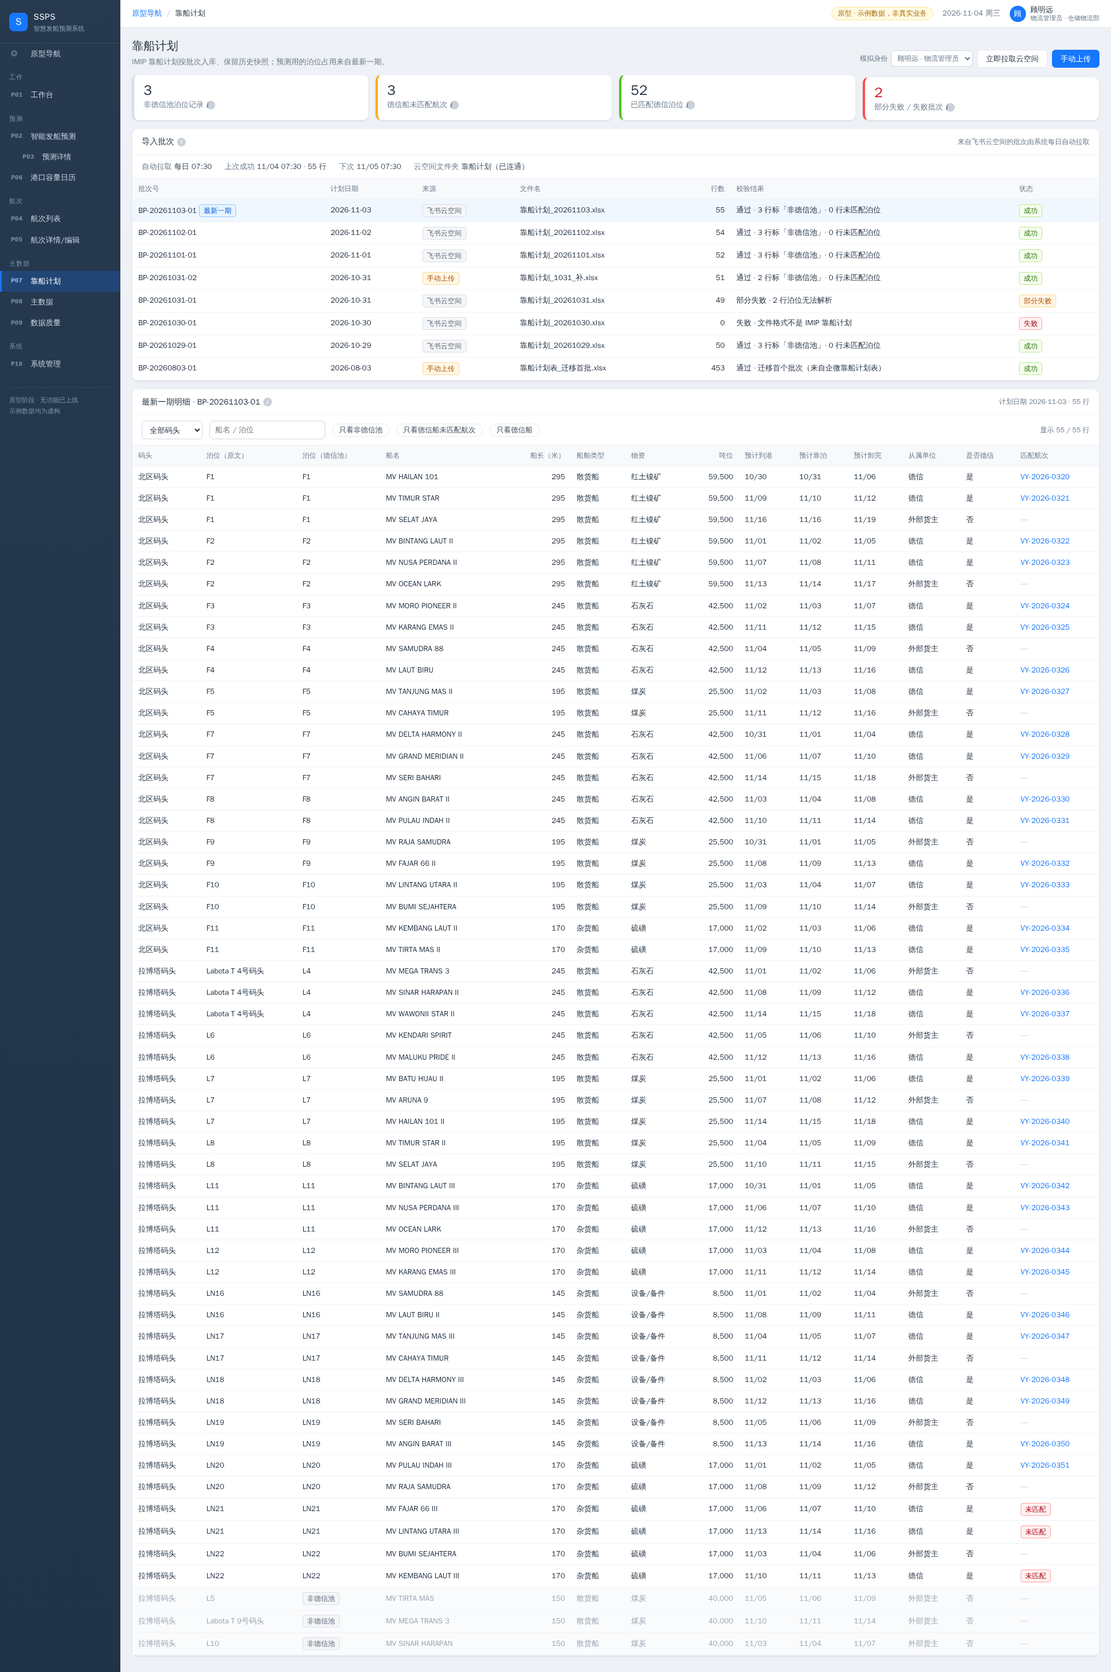
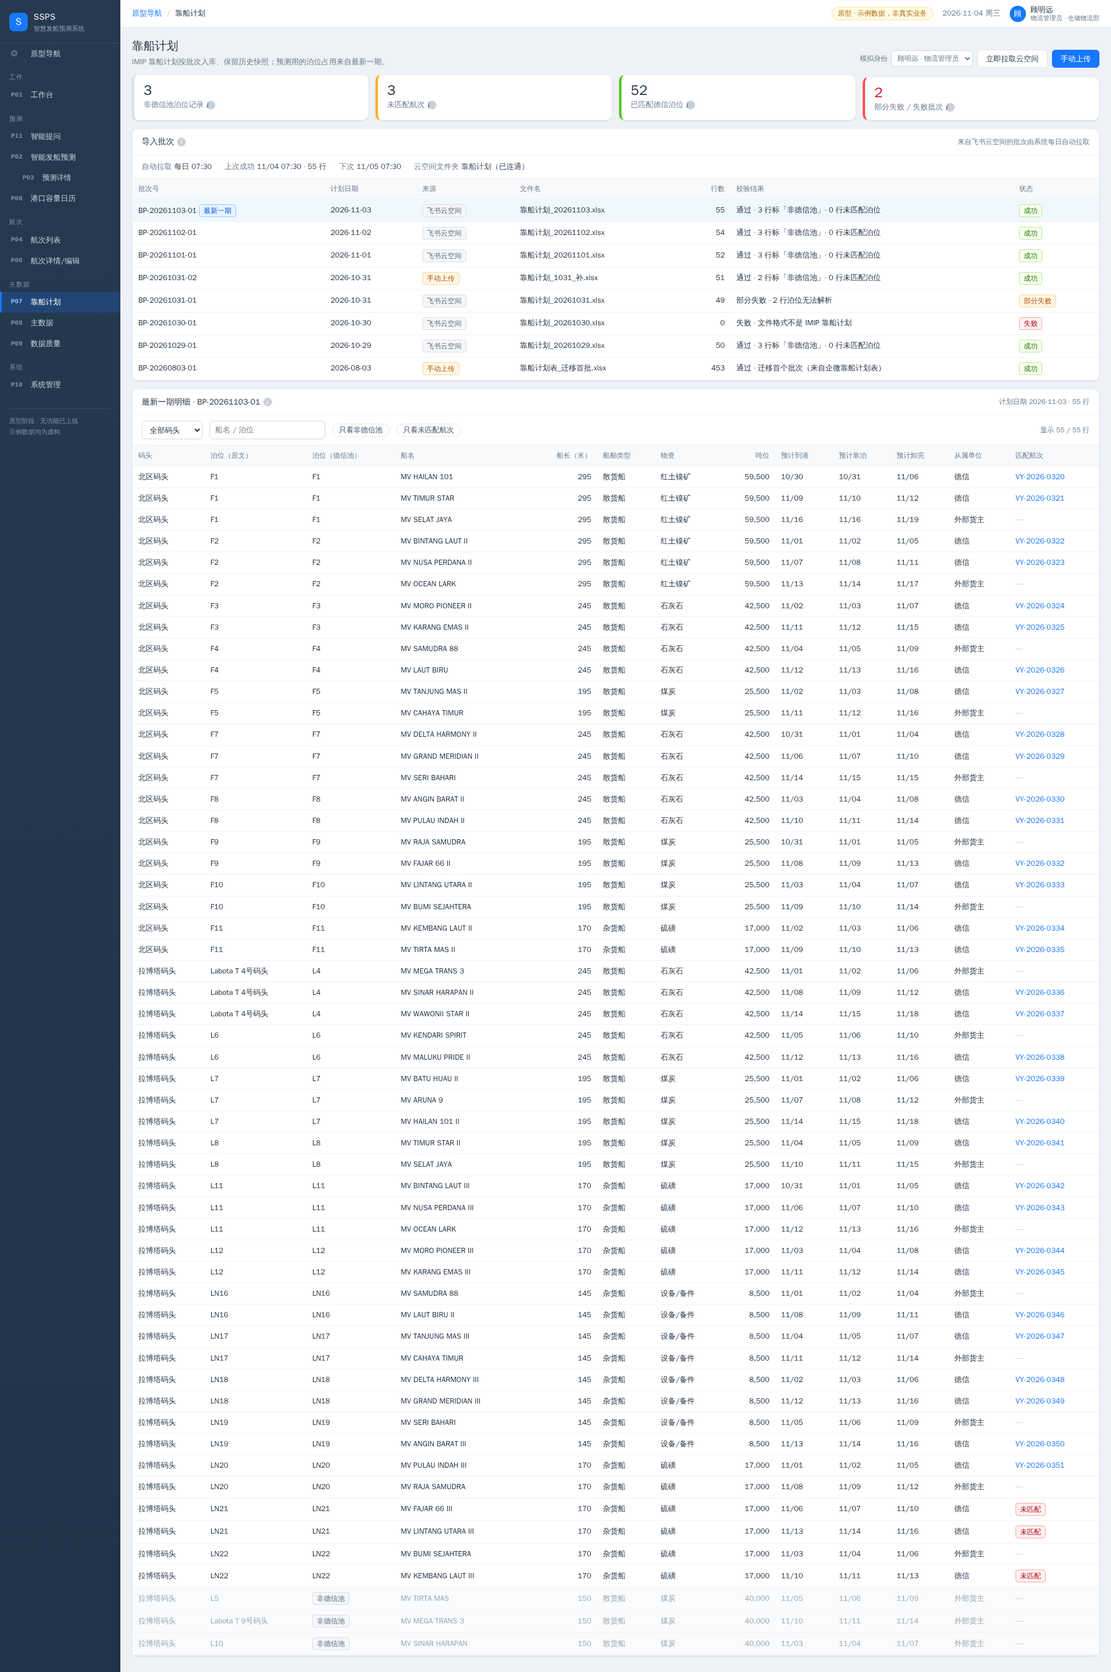
删除 T10「是否德信」字段：同步规格、建表清单、建表计划与 P07 原型
Claude-Session: https://claude.ai/code/session_01S7EgPzREeeBA8rsxhMLUP6

diff --git a/prototype/P07-berth-plan.html b/prototype/P07-berth-plan.html
@@ -50,7 +50,7 @@
         <div class="fbar">
           <select class="inp" id="tm"><option value="">全部码头</option><option>北区码头</option><option>拉博塔码头</option></select>
           <input class="inp" id="kw" placeholder="船名 / 泊位" style="width:200px">
-          <button class="chipf" id="f1">只看非德信池</button><button class="chipf" id="f2">只看德信船未匹配航次</button><button class="chipf" id="f3">只看德信船</button>
+          <button class="chipf" id="f1">只看非德信池</button><button class="chipf" id="f2">只看未匹配航次</button>
           <span class="muted nw" id="cnt" style="margin-left:auto;font-size:12px"></span>
         </div>
         <div class="tbl-wrap"><table class="tbl" id="rows"></table></div>
@@ -65,19 +65,19 @@
   const VIEWERS = [['顾明远', '仓储物流部', '物流管理员'], ['钟立诚', '仓储物流部', '系统管理员'], ['林海川', '大宗采购部', '业务员']];
   let who = VIEWERS[0];
   SHELL.mount({ active: 'P07', title: '靠船计划', user: who });
-  const S = { tm: '', kw: '', off: false, unm: false, dx: false, batch: M.batches[0].batchNo };
+  const S = { tm: '', kw: '', off: false, unm: false, batch: M.batches[0].batchNo };
   const canUp = () => ['物流管理员', '系统管理员'].includes(who[2]);
   const rows = M.berthPlanRows;
   const latest = M.batches[0];
 
   function alerts() {
-    const off = rows.filter((r) => !r.inPool).length, unm = rows.filter((r) => r.inPool && r.isDexin && !r.matchVoyage).length, parse = M.batches.filter((b) => b.status !== '成功').length;
+    const off = rows.filter((r) => !r.inPool).length, unm = rows.filter((r) => r.inPool && r.owner === '德信' && !r.matchVoyage).length, parse = M.batches.filter((b) => b.status !== '成功').length;
     const card = (cls, n, t, tip, fn) => '<div class="card al ' + cls + '" data-fn="' + fn + '"><b>' + n + '</b><span>' + t + (tip ? C.ic(tip) : '') + '</span></div>';
     $('alerts').innerHTML = card('', off, '非德信池泊位记录', '靠船计划里出现、但不在 23 个德信泊位内的记录（如 L5、L9、L10）。保留原文并标「非德信池」，不计入泊位余量。', 'f1') +
-      card(unm ? 'warn' : 'ok', unm, '德信船未匹配航次', '是德信的船，但航次表里找不到对应航次。请业务员补录航次，否则这条船在航次相关的统计里是缺失的。', 'f2') +
+      card(unm ? 'warn' : 'ok', unm, '未匹配航次', '从属单位是德信的船，但航次表里找不到对应航次。请业务员补录航次，否则这条船在航次相关的统计里是缺失的。', 'f2') +
       card('ok', rows.filter((r) => r.inPool).length - 0, '已匹配德信泊位', '预计靠泊的泊位能对上 23 个德信泊位的记录。', '') +
       card(parse ? 'err' : 'ok', parse, '部分失败 / 失败批次', '最近的批次里有解析失败的，请查看批次列表里的校验结果，必要时重新上传。', '');
-    $('alerts').querySelectorAll('[data-fn]').forEach((c) => c.onclick = () => { if (c.dataset.fn === 'f1') { S.off = !S.off; S.unm = false; } else if (c.dataset.fn === 'f2') { S.unm = !S.unm; S.off = false; S.dx = true; } draw(); $('rows').scrollIntoView({ behavior: 'smooth', block: 'start' }); });
+    $('alerts').querySelectorAll('[data-fn]').forEach((c) => c.onclick = () => { if (c.dataset.fn === 'f1') { S.off = !S.off; S.unm = false; } else if (c.dataset.fn === 'f2') { S.unm = !S.unm; S.off = false; } draw(); $('rows').scrollIntoView({ behavior: 'smooth', block: 'start' }); });
   }
   function drawBatches() {
     $('batches').innerHTML = '<thead><tr><th>批次号</th><th>计划日期</th><th>来源</th><th>文件名</th><th style="text-align:right">行数</th><th>校验结果</th><th>状态</th></tr></thead><tbody>' + M.batches.map((b) =>
@@ -90,14 +90,14 @@
     $('dh').innerHTML = (isLatest ? '最新一期明细' : '批次明细') + ' · ' + b.batchNo + C.ic('只保留预测用到的列。表内泊位会映射到泊位主档；表外泊位保留原文，标「非德信池」。');
     $('dsub').textContent = '计划日期 ' + b.planDate + ' · ' + b.rows + ' 行';
     if (!isLatest) { $('rows').innerHTML = '<tbody><tr><td class="empty">原型只保留最新一期的明细；历史批次的明细存在应用库里，真实系统可按批次查看。<br><button class="btn" id="back" style="margin-top:10px">回到最新一期</button></td></tr></tbody>'; $('back').onclick = () => { S.batch = latest.batchNo; draw(); }; $('cnt').textContent = ''; return; }
-    const list = rows.filter((r) => (!S.tm || r.terminal === S.tm) && (!S.kw || (r.vessel + r.berthRaw + (r.berth || '')).toLowerCase().includes(S.kw.toLowerCase())) && (!S.off || !r.inPool) && (!S.dx || r.isDexin) && (!S.unm || (r.inPool && r.isDexin && !r.matchVoyage)));
-    $('rows').innerHTML = '<thead><tr><th>码头</th><th>泊位（原文）</th><th>泊位（德信池）</th><th>船名</th><th style="text-align:right">船长（米）</th><th>船舶类型</th><th>物资</th><th style="text-align:right">吨位</th><th>预计到港</th><th>预计靠泊</th><th>预计卸完</th><th>从属单位</th><th>是否德信</th><th>匹配航次</th></tr></thead><tbody>' +
-      (list.length ? list.map((r) => '<tr class="' + (r.inPool ? '' : 'off') + '"><td>' + r.terminal + '</td><td>' + r.berthRaw + '</td><td>' + (r.inPool ? '<b>' + r.berth + '</b>' : '<span class="tag gray"' + C.tipAttr('不在 23 个德信泊位内，保留原文，不计入泊位余量') + '>非德信池</span>') + '</td><td class="vname">' + r.vessel + '</td><td style="text-align:right">' + r.loa + '</td><td>' + r.shipType + '</td><td>' + r.cargo + '</td><td style="text-align:right">' + C.fmt(r.tons) + '</td><td>' + C.md(r.eta) + '</td><td>' + C.md(r.start) + '</td><td>' + C.md(r.end) + '</td><td>' + r.owner + '</td><td>' + (r.isDexin ? '是' : '否') + '</td><td class="vname">' + (r.matchVoyage ? '<a href="P05-voyage-detail.html?id=' + r.matchVoyage + '">' + r.matchVoyage + '</a>' : (r.isDexin && r.inPool ? '<span class="tag red">未匹配</span>' : '<span class="mut" style="color:var(--faint)">—</span>')) + '</td></tr>').join('') : '<tr><td colspan="14" class="empty">没有符合条件的记录</td></tr>') + '</tbody>';
+    const list = rows.filter((r) => (!S.tm || r.terminal === S.tm) && (!S.kw || (r.vessel + r.berthRaw + (r.berth || '')).toLowerCase().includes(S.kw.toLowerCase())) && (!S.off || !r.inPool) && (!S.unm || (r.inPool && r.owner === '德信' && !r.matchVoyage)));
+    $('rows').innerHTML = '<thead><tr><th>码头</th><th>泊位（原文）</th><th>泊位（德信池）</th><th>船名</th><th style="text-align:right">船长（米）</th><th>船舶类型</th><th>物资</th><th style="text-align:right">吨位</th><th>预计到港</th><th>预计靠泊</th><th>预计卸完</th><th>从属单位</th><th>匹配航次</th></tr></thead><tbody>' +
+      (list.length ? list.map((r) => '<tr class="' + (r.inPool ? '' : 'off') + '"><td>' + r.terminal + '</td><td>' + r.berthRaw + '</td><td>' + (r.inPool ? '<b>' + r.berth + '</b>' : '<span class="tag gray"' + C.tipAttr('不在 23 个德信泊位内，保留原文，不计入泊位余量') + '>非德信池</span>') + '</td><td class="vname">' + r.vessel + '</td><td style="text-align:right">' + r.loa + '</td><td>' + r.shipType + '</td><td>' + r.cargo + '</td><td style="text-align:right">' + C.fmt(r.tons) + '</td><td>' + C.md(r.eta) + '</td><td>' + C.md(r.start) + '</td><td>' + C.md(r.end) + '</td><td>' + r.owner + '</td><td class="vname">' + (r.matchVoyage ? '<a href="P05-voyage-detail.html?id=' + r.matchVoyage + '">' + r.matchVoyage + '</a>' : (r.owner === '德信' && r.inPool ? '<span class="tag red">未匹配</span>' : '<span class="mut" style="color:var(--faint)">—</span>')) + '</td></tr>').join('') : '<tr><td colspan="13" class="empty">没有符合条件的记录</td></tr>') + '</tbody>';
     $('cnt').textContent = '显示 ' + list.length + ' / ' + rows.length + ' 行';
-    $('f1').classList.toggle('on', S.off); $('f2').classList.toggle('on', S.unm); $('f3').classList.toggle('on', S.dx);
+    $('f1').classList.toggle('on', S.off); $('f2').classList.toggle('on', S.unm);
   }
   $('tm').onchange = (e) => { S.tm = e.target.value; draw(); }; $('kw').oninput = (e) => { S.kw = e.target.value.trim(); draw(); };
-  $('f1').onclick = () => { S.off = !S.off; draw(); }; $('f2').onclick = () => { S.unm = !S.unm; if (S.unm) S.dx = true; draw(); }; $('f3').onclick = () => { S.dx = !S.dx; draw(); };
+  $('f1').onclick = () => { S.off = !S.off; draw(); }; $('f2').onclick = () => { S.unm = !S.unm; draw(); };
 
   // 身份
   $('viewer').innerHTML = VIEWERS.map((x, i) => '<option value="' + i + '">' + x[0] + ' · ' + x[2] + '</option>').join('');

diff --git a/prototype/mock-data.js b/prototype/mock-data.js
@@ -112,7 +112,7 @@
         loa: 120 + c * 25, shipType: c >= 3 ? '散货船' : '杂货船',
         cargo: cargoByCap[c], tons: Math.round(c * 10000 * 0.85 / 100) * 100,
         eta: '2026-' + eta, start: '2026-' + start, end: '2026-' + end,
-        owner: si % 3 === 0 ? '外部货主' : '德信', isDexin: si % 3 !== 0,
+        owner: si % 3 === 0 ? '外部货主' : '德信', 
         matchVoyage: null, batchNo: batch.batchNo,
       });
     });
@@ -121,7 +121,7 @@
     terminal: o.terminal, berthRaw: o.raw, berth: null, inPool: false,
     vessel: shipNames[si++ % shipNames.length], loa: 150, shipType: '散货船', cargo: '煤炭', tons: 40000,
     eta: '2026-' + o.eta, start: '2026-' + o.start, end: '2026-' + o.end,
-    owner: '外部货主', isDexin: false, matchVoyage: null, batchNo: batch.batchNo,
+    owner: '外部货主', matchVoyage: null, batchNo: batch.batchNo,
   }));
   batch.rows = berthPlanRows.length;
   batch.validation = '通过 · ' + OFFPOOL.length + ' 行标「非德信池」· 0 行未匹配泊位';
@@ -254,7 +254,7 @@
     planDischS: at(-3, '00:00'), planDischE: at(-1, '23:59'), planLoadArr: at(-9), actLoadArr: at(-9, '10:00'), loadBerth: at(-9, '14:00'), actLoadDep: at(-7, '09:00'), eta: at(-2), actDischArr: at(-2, '07:00'), dischBerth: at(-1, '09:00'), dischDep: at(0, '02:30'), actBerths: ['LN17'] });
   // 3) 靠船计划里的德信船：每条都生成对应航次（保证靠船计划与航次表一致）；故意留 3 条不生成，用来演示「未匹配航次」告警
   const used = new Set(M.voyages.map((v) => v.vessel).concat(list.map((v) => v.vessel)));
-  const dex = M.berthPlanRows.filter((r) => r.inPool && r.isDexin);
+  const dex = M.berthPlanRows.filter((r) => r.inPool && r.owner === '德信');
   const skip = new Set(dex.slice(-3));
   const roman = ['', ' II', ' III', ' IV'];
   let gen = 320; const owners = ['林海川', '周晓棠', '陈砚秋'];

diff --git a/docs/schema/base-build-checklist.md b/docs/schema/base-build-checklist.md
@@ -264,7 +264,7 @@
 | --- | --- | --- | --- |
 | 1 | 码头 | 文本 |  |
 | 2 | 泊位原文 | 文本 | 靠船计划里的原始写法 |
-| 3 | 泊位 | 单向关联 → T02 | 表外泊位留空，留空即视为「非德信池」，不计入泊位余量；池内泊位上的船不论是否德信都计入占用 |
+| 3 | 泊位 | 单向关联 → T02 | 表外泊位留空，留空即视为「非德信池」，不计入泊位余量；池内泊位上的船不论从属单位都计入占用 |
 | 4 | 船名 | 文本 |  |
 | 5 | 船长 | 数字 |  |
 | 6 | 船舶类型 | 文本 |  |
@@ -273,12 +273,11 @@
 | 9 | 预计到港 | 日期 |  |
 | 10 | 预计靠泊 | 日期（含时间） |  |
 | 11 | 预计卸完 | 日期（含时间） |  |
-| 12 | 从属单位 | 文本 |  |
-| 13 | 是否德信 | 复选框 |  |
-| 14 | 匹配航次 | 单向关联 → T04 | 按船名和到港日自动匹配，匹配不上留空 |
-| 15 | 批次号 | 文本 |  |
+| 12 | 从属单位 | 文本 | 原文照录 |
+| 13 | 匹配航次 | 单向关联 → T04 | 按船名和到港日自动匹配，匹配不上留空 |
+| 14 | 批次号 | 文本 |  |
 
-- 附录 C 的 29 列是企微「靠船计划表」（在 IMIP 原始文件基础上二次加工过）的列。外部评审读取 IMIP 原始文件「导入靠船计划20261104.xlsx」后报告只有 23 列，没有「业务员」「在港」「是否德信」「是否靠泊」「是否排队」等列；待用原始文件核对后修正附录 C，届时 T10「是否德信」需要另定来源或删除（它不参与泊位余量计算）。
+- 附录 C 的 29 列是企微「靠船计划表」（在 IMIP 原始文件基础上二次加工过）的列。外部评审读取 IMIP 原始文件「导入靠船计划20261104.xlsx」后报告只有 23 列，没有「业务员」「在港」「是否德信」「是否靠泊」「是否排队」等列；待用原始文件核对后修正附录 C，T10 不设「是否德信」字段（2026-11-05 Leyinet 确认删除）：原始文件没有这一列，它也不参与泊位余量计算。
 - 导入过滤：只有预计卸完不早于导入当天、且日期在导入日前后 90 天内的行写入 T10，其余行只存应用库快照（规则见 `T09-T10-compat-and-berth-plan.md`）。
 
 ### T09a 兼容_商务海运船舶动态、T09b 兼容_大宗到船计划
@@ -518,6 +517,6 @@ D01–D10 及 D11–D12 见 `docs/schema/D-app-db.md`。库存断料纳入一期
 | 24 | 业务员1 | 不进 T10（只留在应用库 D04 的原始快照里） |
 | 25 | 业务员 2 | 不进 T10（只留在应用库 D04 的原始快照里） |
 | 26 | 在港 | 不进 T10（只留在应用库 D04 的原始快照里） |
-| 27 | 是否德信 | T10「是否德信」 |
+| 27 | 是否德信 | 不进 T10（2026-11-05 Leyinet 确认删除），原始 IMIP 文件也没有这一列 |
 | 28 | 是否靠泊 | 不进 T10（只留在应用库 D04 的原始快照里） |
 | 29 | 是否排队 | 不进 T10（只留在应用库 D04 的原始快照里） |

diff --git a/docs/implementation-plan.md b/docs/implementation-plan.md
@@ -139,7 +139,7 @@ flowchart LR
 | 7 | 生效日期 | 日期 | 是 |  |
 | 8 | 备注 | 文本 |  | LN16 按普通 1 万吨泊位处理 |
 
-不在表内的泊位（L1/L2/L3/L5/L9/L10 等）不建行；靠船计划中出现时保留原文并标「非德信池」，不进 CMR。池内泊位上的船不论从属单位、不论「是否德信」，一律计入占用（2026-11-05 Leyinet 确认）；「是否德信」只做展示和统计，不参与 CMR。CMR 分母按查询货量取「容量吨级 ≥ 货量」的启用泊位。
+不在表内的泊位（L1/L2/L3/L5/L9/L10 等）不建行；靠船计划中出现时保留原文并标「非德信池」，不进 CMR。池内泊位上的船不论从属单位、不论「是否德信」，一律计入占用（2026-11-05 Leyinet 确认）；靠船计划不设「是否德信」字段（2026-11-05 Leyinet 确认删除）。CMR 分母按查询货量取「容量吨级 ≥ 货量」的启用泊位。
 
 ### T03 船舶主档
 
@@ -288,7 +288,7 @@ flowchart LR
 
 ### T09a / T09b 兼容表、T10 靠船计划（最新一期）
 
-T09a 保留商务海运表原 33 列、T09b 保留大宗到船计划表原 87 列的列名和顺序，每行对应 T05 的一行货物明细，由后端全量重写（每日 15:50 + 航次保存后增量），任何人不可改。T10 只保留预测用到的 IMIP 列（码头、泊位原文、泊位→T02、船名、船长、船舶类型、物资、吨位、预计到港、预计靠泊、预计卸完、从属单位、是否德信、匹配航次→T04、批次号），每次导入整表覆盖。
+T09a 保留商务海运表原 33 列、T09b 保留大宗到船计划表原 87 列的列名和顺序，每行对应 T05 的一行货物明细，由后端全量重写（每日 15:50 + 航次保存后增量），任何人不可改。T10 只保留预测用到的 IMIP 列（码头、泊位原文、泊位→T02、船名、船长、船舶类型、物资、吨位、预计到港、预计靠泊、预计卸完、从属单位、匹配航次→T04、批次号），每次导入整表覆盖。
 
 **靠船计划导入过滤（2026-11-05 Leyinet 确认，含 90 天）**：每个批次全部原始行照存 D04 快照，只有通过下面两条的行才写入 T10、参与 CMR：① 预计卸完 ≥ 导入当天，已卸完的历史行不进 T10；② 日期合理性：预计到港、预计靠泊、预计卸完任何一项早于导入日 90 天或晚于导入日 90 天，或者预计卸完早于预计靠泊，都标「日期异常」、不进 CMR，并进数据质量清单。船舶类型按 T04 枚举归一（靠船计划里的「销售成品船」= 成品销售船）。
 

diff --git a/docs/open-questions.md b/docs/open-questions.md
@@ -80,7 +80,7 @@
 
 以下是评审提出、经核对后属于「业务上要你确认」的事项，未确认前一律不自行假定。
 
-- [x] **「是否德信」怎么判定**——2026-11-05 Leyinet 确认：保持原型逻辑，池内泊位上的船不论是否德信都计入占用；「是否德信」只做展示。原问题：：靠船计划原始表有「从属单位」之类的列，但原型里直接把泊位池内的所有行都算占用。要确认：池内泊位上非德信的船是否也算占用？德信的判定规则是什么？
+- [x] **「是否德信」怎么判定**——2026-11-05 Leyinet 确认：保持原型逻辑，池内泊位上的船不论是否德信都计入占用；2026-11-05 再确认：T10 删除「是否德信」字段，原始文件无此列。原问题：：靠船计划原始表有「从属单位」之类的列，但原型里直接把泊位池内的所有行都算占用。要确认：池内泊位上非德信的船是否也算占用？德信的判定规则是什么？
 - [x] **LN16–LN22 在真实靠船计划里缺失**——2026-11-05 Leyinet：不用考虑，按现有规则计算。原问题：：若这些泊位在计划表里没有任何行，CMR 会把它们当 100% 空闲，结果偏乐观。要确认它们是真没有船，还是计划表不登记（不登记则需要别的数据源）。
 - [x] **靠船计划导入过滤**——2026-11-05 Leyinet 同意加过滤，90 天也已确认。已写入实施计划 T10 一节：全部原始行存 D04，只有「预计卸完 ≥ 导入当天」且日期在导入日前后 90 天内的行进 T10、参与 CMR，异常行进数据质量清单。原问题：：真实表含 8 月以来的历史行，另有 1 行日期异常（2029 年）。要确认导入时的过滤范围（只取今天前后多少天）和日期合理性校验规则。
 - [x] **断料按总库存还是按子品名**——2026-11-05 Leyinet 同意原型做法：说了具体品名按该品名判断，只说类型（铁矿 / 焦煤）按该类型总库存判断。原问题：：库存表同一物料有汇总和子品名多层，按哪一层判断断料？

diff --git a/docs/schema/T09-T10-compat-and-berth-plan.md b/docs/schema/T09-T10-compat-and-berth-plan.md
@@ -1,5 +1,5 @@
 # T09a / T09b 兼容表、T10 靠船计划（最新一期）
 
-T09a 保留商务海运表原 33 列、T09b 保留大宗到船计划表原 87 列的列名和顺序，每行对应 T05 的一行货物明细，由后端全量重写（每日 15:50 + 航次保存后增量），任何人不可改。T10 只保留预测用到的 IMIP 列（码头、泊位原文、泊位→T02、船名、船长、船舶类型、物资、吨位、预计到港、预计靠泊、预计卸完、从属单位、是否德信、匹配航次→T04、批次号），每次导入整表覆盖。
+T09a 保留商务海运表原 33 列、T09b 保留大宗到船计划表原 87 列的列名和顺序，每行对应 T05 的一行货物明细，由后端全量重写（每日 15:50 + 航次保存后增量），任何人不可改。T10 只保留预测用到的 IMIP 列（码头、泊位原文、泊位→T02、船名、船长、船舶类型、物资、吨位、预计到港、预计靠泊、预计卸完、从属单位、匹配航次→T04、批次号），每次导入整表覆盖。
 
 **靠船计划导入过滤（2026-11-05 Leyinet 确认，含 90 天）**：每个批次全部原始行照存 D04 快照，只有通过下面两条的行才写入 T10、参与 CMR：① 预计卸完 ≥ 导入当天，已卸完的历史行不进 T10；② 日期合理性：预计到港、预计靠泊、预计卸完任何一项早于导入日 90 天或晚于导入日 90 天，或者预计卸完早于预计靠泊，都标「日期异常」、不进 CMR，并进数据质量清单。船舶类型按 T04 枚举归一（靠船计划里的「销售成品船」= 成品销售船）。

diff --git a/docs/schema/T02-berth.md b/docs/schema/T02-berth.md
@@ -11,4 +11,4 @@
 | 7 | 生效日期 | 日期 | 是 |  |
 | 8 | 备注 | 文本 |  | LN16 按普通 1 万吨泊位处理 |
 
-不在表内的泊位（L1/L2/L3/L5/L9/L10 等）不建行；靠船计划中出现时保留原文并标「非德信池」，不进 CMR。池内泊位上的船不论从属单位、不论「是否德信」，一律计入占用（2026-11-05 Leyinet 确认）；「是否德信」只做展示和统计，不参与 CMR。CMR 分母按查询货量取「容量吨级 ≥ 货量」的启用泊位。
+不在表内的泊位（L1/L2/L3/L5/L9/L10 等）不建行；靠船计划中出现时保留原文并标「非德信池」，不进 CMR。池内泊位上的船不论从属单位、不论「是否德信」，一律计入占用（2026-11-05 Leyinet 确认）；靠船计划不设「是否德信」字段（2026-11-05 Leyinet 确认删除）。CMR 分母按查询货量取「容量吨级 ≥ 货量」的启用泊位。
